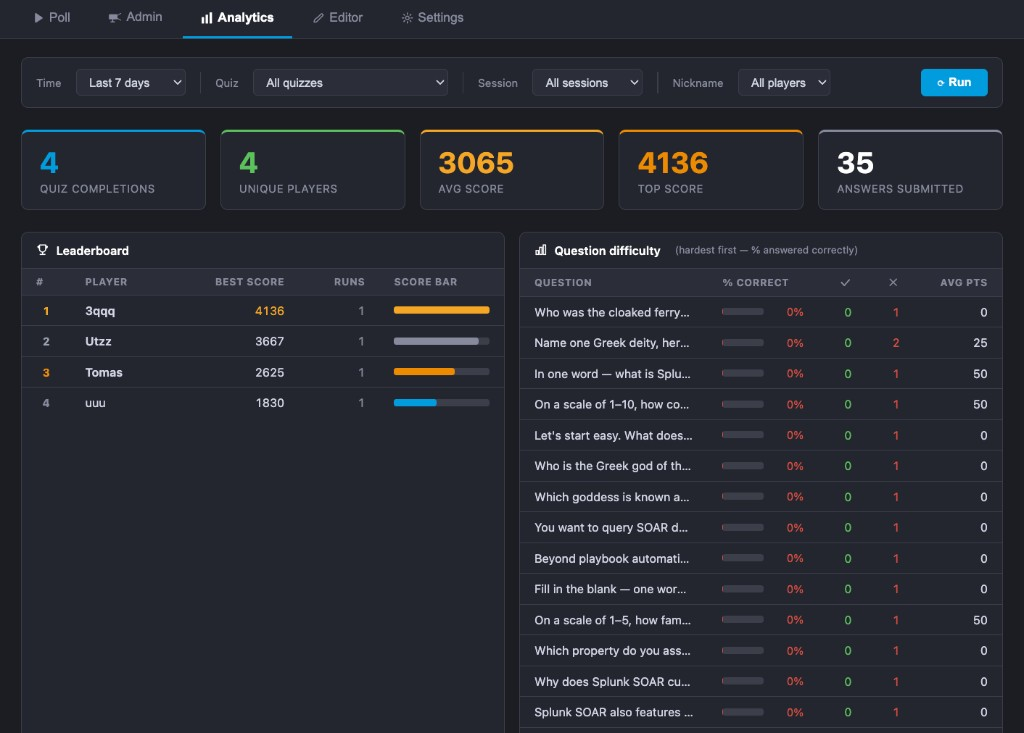
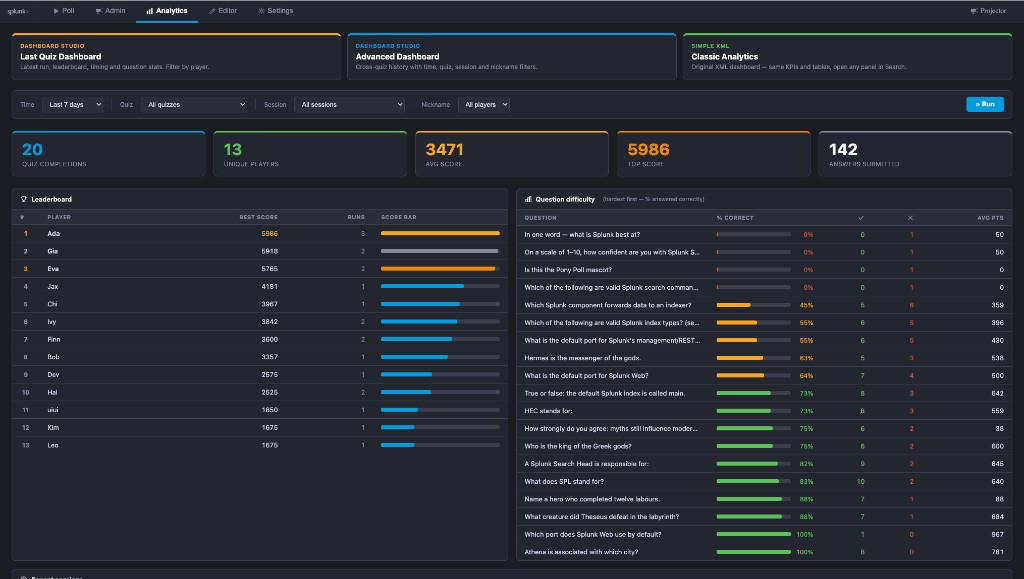
docs: document Last Quiz, Advanced, and Classic analytics dashboards
Replace the Analytics screenshot with the card row and correct the dashboard view URLs in both READMEs.

diff --git a/README.md b/README.md
@@ -74,7 +74,7 @@ Install app → create questions in the Editor → share the /play URL → watch
 | Show a wall-screen during a session | Open `/projector` on a second display — auto-updates with each phase |
 | Build or edit questions | **Editor** tab — 6 question types, drag-to-reorder, images |
 | Import a ready-made quiz | Editor → **Library** (bundled) or **GitHub** (live sync) |
-| Analyse results | **Analytics** tab — leaderboard, KPIs, difficulty breakdown, session filter |
+| Analyse results | **Analytics** tab, or Last Quiz / Advanced / Classic dashboards |
 | Install | Upload `ponypollapp.tar.gz` in **Apps → Manage Apps** |
 
 ---
@@ -113,7 +113,7 @@ The session number is displayed prominently so the host can announce it to the r
 
 ### Analytics
 
-![Analytics — KPI scorecards, leaderboard, question difficulty table, recent sessions](docs/screenshots/analytics.png)
+![Analytics — dashboard cards, KPI scorecards, leaderboard, question difficulty](docs/screenshots/analytics.png)
 
 ### Settings
 
@@ -146,7 +146,7 @@ The **Quiz music** and **Sound effects** toggles let each participant enable or 
 | **Quiz library** | Bundled quizzes importable with one click; **GitHub** button syncs latest quizzes live |
 | **Export / Import** | JSON file per quiz — portable between any Splunk instances |
 | **Random question subset** | Play N random questions from a larger pool each session |
-| **Analytics** | KPI scorecards, leaderboard, per-question difficulty, recent sessions — no SPL needed |
+| **Analytics** | In-app KPIs, leaderboard, and difficulty; cards open Last Quiz, Advanced (Dashboard Studio), and Classic Simple XML |
 | **KV Store backed** | Questions, quizzes, config, and session state in Splunk KV Store |
 | **No extra infrastructure** | Events written directly via `receivers/simple`; no Python scripts or sidecars |
 | **Participant permissions** | `ponypoll_user` role ships with `edit_tcp` + `edit_kvstore` so non-admin users can play; `ponypoll_guest` for locked-down shared workshop logins |
@@ -347,11 +347,22 @@ Each question is saved individually to KV Store — there is no "Save All".
 
 ## Analytics
 
-The **Analytics** tab gives a live view of results without writing any SPL.
+The **Analytics** tab gives a live view of results without writing any SPL. Three cards at the top open Splunk dashboards (new tab) for deeper analysis.
 
-![Analytics — filters, KPI scorecards, leaderboard, question difficulty table, recent sessions](docs/screenshots/analytics.png)
+![Analytics — dashboard cards, KPI scorecards, leaderboard, question difficulty](docs/screenshots/analytics.png)
 
-### Filters
+### Dashboards
+
+| Dashboard | View | What it shows |
+|---|---|---|
+| **Last Quiz Dashboard** | `/app/ponypollapp/analytics_last_quiz` | Dashboard Studio — latest completed run: KPIs, leaderboard, timing (seconds used), question stats. Filter by player. |
+| **Advanced Dashboard** | `/app/ponypollapp/analytics_advanced` | Dashboard Studio — cross-quiz history with time, quiz, session, and nickname filters. |
+| **Classic Analytics** | `/app/ponypollapp/analytics` | Simple XML — same KPIs and tables; open any panel in Search. |
+| **Analytics (Studio)** | `/app/ponypollapp/analytics_studio` | Dashboard Studio variant of the classic layout (also in the Splunk nav). |
+
+All four views also appear in the Splunk app navigation bar.
+
+### Filters (in-app tab)
 
 | Filter | Options |
 |---|---|
@@ -360,7 +371,7 @@ The **Analytics** tab gives a live view of results without writing any SPL.
 | **Session** | Any session number, or *All sessions* — defaults to the most recent |
 | **Nickname** | Any individual player, or *All players* |
 
-### Panels
+### Panels (in-app tab)
 
 | Panel | What it shows |
 |---|---|
@@ -371,8 +382,6 @@ The **Analytics** tab gives a live view of results without writing any SPL.
 | **Leaderboard** | Top 20 players ranked by best score, with gold/silver/bronze medals |
 | **Question difficulty** | % correct and avg points per question |
 | **Recent sessions** | Last 50 session events with timestamp, player, score |
-
-A matching **Splunk dashboard** (Simple XML) is also available at `/app/ponypollapp/analytics_dashboard` for further SPL-level analysis.
 
 ---
 

diff --git a/src/package/README.md b/src/package/README.md
@@ -74,7 +74,7 @@ Install app → create questions in the Editor → share the /play URL → watch
 | Show a wall-screen during a session | Open `/projector` on a second display — auto-updates with each phase |
 | Build or edit questions | **Editor** tab — 6 question types, drag-to-reorder, images |
 | Import a ready-made quiz | Editor → **Library** (bundled) or **GitHub** (live sync) |
-| Analyse results | **Analytics** tab — leaderboard, KPIs, difficulty breakdown, session filter |
+| Analyse results | **Analytics** tab, or Last Quiz / Advanced / Classic dashboards |
 | Install | Upload `ponypollapp.tar.gz` in **Apps → Manage Apps** |
 
 ---
@@ -113,7 +113,7 @@ The session number is displayed prominently so the host can announce it to the r
 
 ### Analytics
 
-![Analytics — KPI scorecards, leaderboard, question difficulty table, recent sessions](docs/screenshots/analytics.png)
+![Analytics — dashboard cards, KPI scorecards, leaderboard, question difficulty](docs/screenshots/analytics.png)
 
 ### Settings
 
@@ -146,7 +146,7 @@ The **Quiz music** and **Sound effects** toggles let each participant enable or 
 | **Quiz library** | Bundled quizzes importable with one click; **GitHub** button syncs latest quizzes live |
 | **Export / Import** | JSON file per quiz — portable between any Splunk instances |
 | **Random question subset** | Play N random questions from a larger pool each session |
-| **Analytics** | KPI scorecards, leaderboard, per-question difficulty, recent sessions — no SPL needed |
+| **Analytics** | In-app KPIs, leaderboard, and difficulty; cards open Last Quiz, Advanced (Dashboard Studio), and Classic Simple XML |
 | **KV Store backed** | Questions, quizzes, config, and session state in Splunk KV Store |
 | **No extra infrastructure** | Events written directly via `receivers/simple`; no Python scripts or sidecars |
 | **Participant permissions** | `ponypoll_user` role ships with `edit_tcp` + `edit_kvstore` so non-admin users can play; `ponypoll_guest` for locked-down shared workshop logins |
@@ -347,11 +347,22 @@ Each question is saved individually to KV Store — there is no "Save All".
 
 ## Analytics
 
-The **Analytics** tab gives a live view of results without writing any SPL.
+The **Analytics** tab gives a live view of results without writing any SPL. Three cards at the top open Splunk dashboards (new tab) for deeper analysis.
 
-![Analytics — filters, KPI scorecards, leaderboard, question difficulty table, recent sessions](docs/screenshots/analytics.png)
+![Analytics — dashboard cards, KPI scorecards, leaderboard, question difficulty](docs/screenshots/analytics.png)
 
-### Filters
+### Dashboards
+
+| Dashboard | View | What it shows |
+|---|---|---|
+| **Last Quiz Dashboard** | `/app/ponypollapp/analytics_last_quiz` | Dashboard Studio — latest completed run: KPIs, leaderboard, timing (seconds used), question stats. Filter by player. |
+| **Advanced Dashboard** | `/app/ponypollapp/analytics_advanced` | Dashboard Studio — cross-quiz history with time, quiz, session, and nickname filters. |
+| **Classic Analytics** | `/app/ponypollapp/analytics` | Simple XML — same KPIs and tables; open any panel in Search. |
+| **Analytics (Studio)** | `/app/ponypollapp/analytics_studio` | Dashboard Studio variant of the classic layout (also in the Splunk nav). |
+
+All four views also appear in the Splunk app navigation bar.
+
+### Filters (in-app tab)
 
 | Filter | Options |
 |---|---|
@@ -360,7 +371,7 @@ The **Analytics** tab gives a live view of results without writing any SPL.
 | **Session** | Any session number, or *All sessions* — defaults to the most recent |
 | **Nickname** | Any individual player, or *All players* |
 
-### Panels
+### Panels (in-app tab)
 
 | Panel | What it shows |
 |---|---|
@@ -371,8 +382,6 @@ The **Analytics** tab gives a live view of results without writing any SPL.
 | **Leaderboard** | Top 20 players ranked by best score, with gold/silver/bronze medals |
 | **Question difficulty** | % correct and avg points per question |
 | **Recent sessions** | Last 50 session events with timestamp, player, score |
-
-A matching **Splunk dashboard** (Simple XML) is also available at `/app/ponypollapp/analytics_dashboard` for further SPL-level analysis.
 
 ---
 
